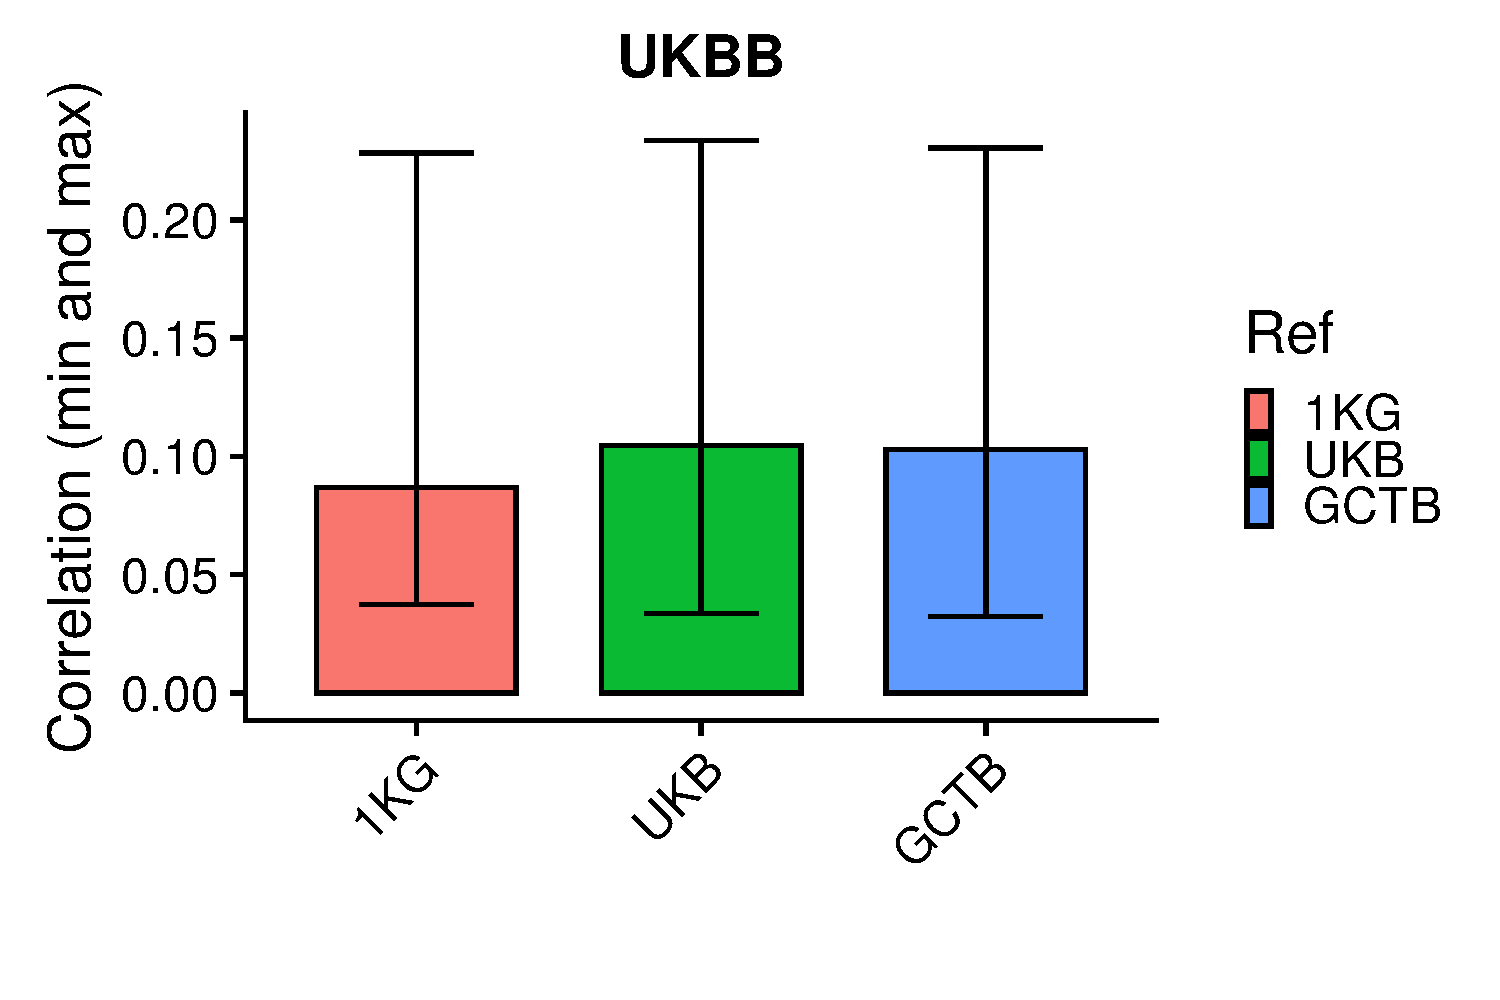
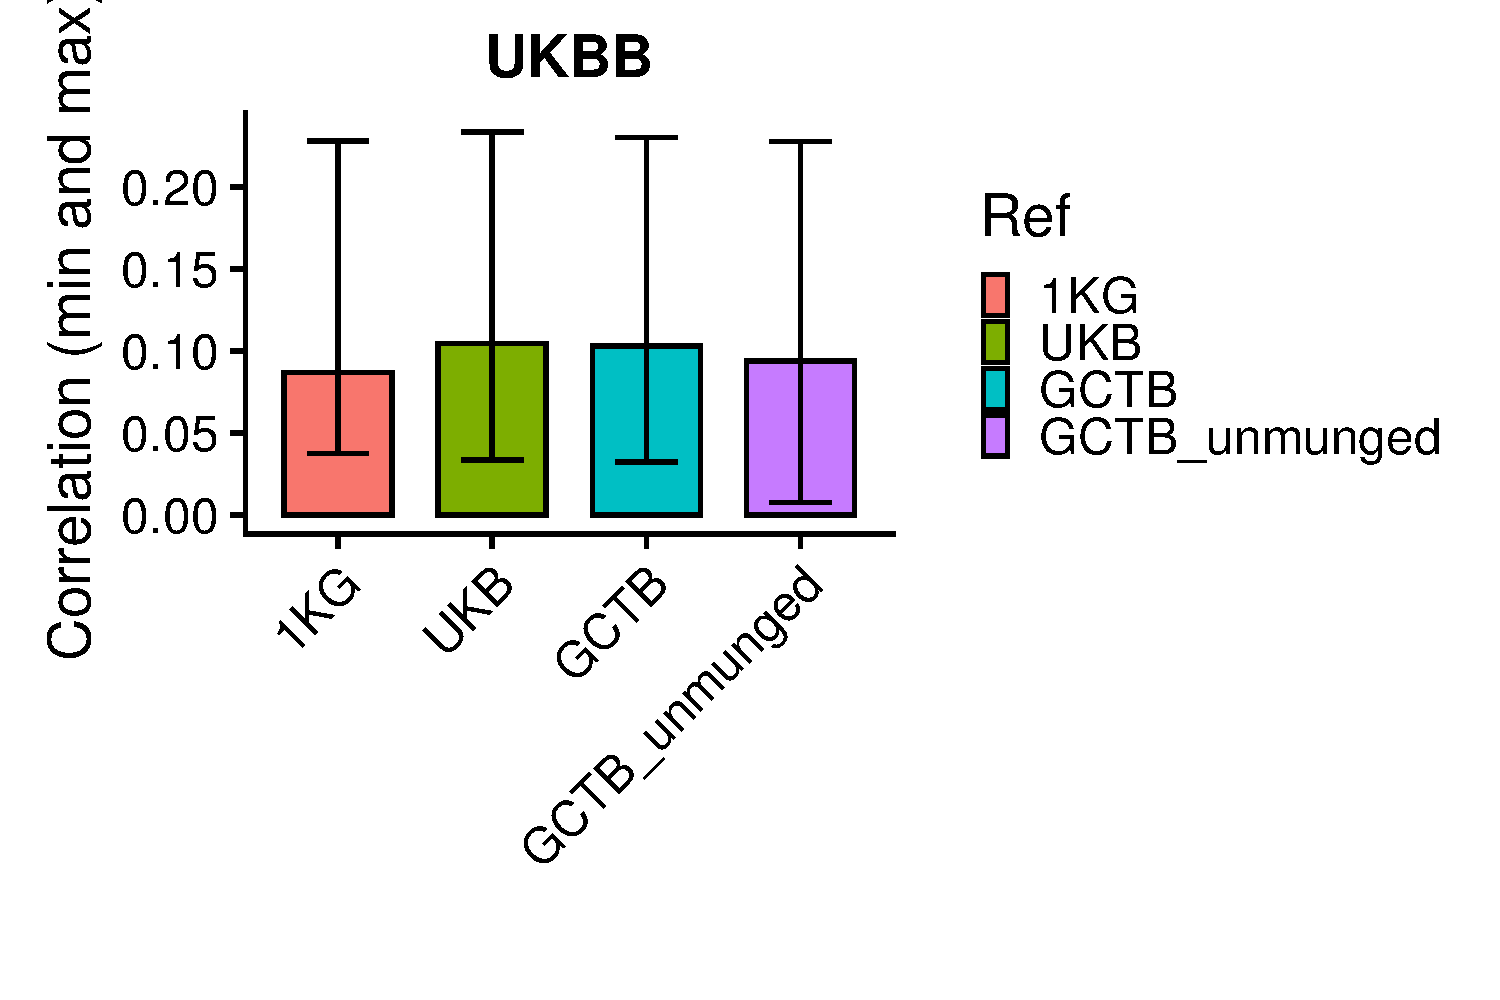
Update
Former-commit-id: 761d9d055f65f9c750fb7faf47b88cfcd8069067

diff --git a/Pipeline_prep.html b/Pipeline_prep.html
@@ -425,7 +425,7 @@ pre code, pre, code {
 <li><p>Available genetic variation</p></li>
 <li><p>Minor allele frequecy (MAF)</p></li>
 </ul>
-<p>Basing these features on the target sample lead to differences in genotype-based scores across samples seperately processed, meaning they cannot be directly compared. This is not a limitation when performing inference within a single dataset, however in framework of prediction it is important that the predictors are derived in a way that can be replicated in any future dataset to optimise external validity of the prediction model.</p>
+<p>Basing these features on the target sample lead to differences in genotype-based scores across samples separately processed, meaning they cannot be directly compared. This is not a limitation when performing inference within a single dataset, however in framework of prediction it is important that the predictors are derived in a way that can be replicated in any future dataset to optimise external validity of the prediction model.</p>
 <p>To ensure consistency in genotye-based scoring we can base each of these features on a reference dataset, such as the 1000 Genomes reference, an approach herein refered to as ‘reference-standardised’. Another advantage of reference-standardised scoring is that a single sample can be realiably processed, enabling reliable prediction for n individual.</p>
 <p>This page provides instructions for preparing the reference data required for reference-standardised genotype-based scoring. Here I provide code used when preparing on the KCL Rosalind cluster, with the intention of deriving scores in the UK Biobank sample and Twins Early Development Study (TEDS) sample.</p>
 <p><br/></p>
@@ -1308,6 +1308,31 @@ qsub -N $(echo job$(($n+15))) -hold_jid $(echo job$(($n+0))) -pe smp 6 -l h_vmem
 --phi_param 1e-6,1e-4,1e-2,1,auto
 n=$(($n+1))
 done
+
+# Run using the PRScs-provided LD reference.
+&gt; ${Geno_1KG_dir}/Score_files_for_poylygenic_PRScs/todo.txt
+for gwas in $(echo DEPR06 COLL01 HEIG03 BODY03 DIAB05 COAD01 CROH01 SCLE02 RHEU01 EDUC03 ADHD04 BODY11);do
+if [ ! -f ${Geno_1KG_dir}/Score_files_for_poylygenic_PRScs/${gwas}/1KGPhase3.w_hm3.${gwas}.EUR.scale ]; then
+echo $gwas &gt;&gt; ${Geno_1KG_dir}/Score_files_for_poylygenic_PRScs/todo.txt
+fi
+done
+
+n=0
+for gwas in $(cat ${Geno_1KG_dir}/Score_files_for_poylygenic_PRScs/todo.txt);do
+qsub -N $(echo job$(($n+15))) -hold_jid $(echo job$(($n+0))) -pe smp 6 -l h_vmem=6G /users/k1806347/brc_scratch/Software/Rscript.sh /users/k1806347/brc_scratch/Software/MyGit/GenoPred/Scripts/polygenic_score_file_creator_PRScs/polygenic_score_file_creator_PRScs.R \
+--ref_plink_chr ${Geno_1KG_dir}/1KGPhase3.w_hm3.chr \
+--ref_keep ${Geno_1KG_dir}/keep_files/EUR_samples.keep \
+--sumstats ${gwas_rep}/${gwas}.sumstats.gz \
+--plink ${plink1_9} \
+--memory 5000 \
+--output ${Geno_1KG_dir}/Score_files_for_poylygenic_PRScs/${gwas}/1KGPhase3.w_hm3.${gwas} \
+--ref_pop_scale ${Geno_1KG_dir}/super_pop_keep.list \
+--PRScs_path ${PRScs_dir}/PRScs.py \
+--PRScs_ref_path ${PRScs_dir}/ldblk_1kg_eur \
+--n_cores 6 \
+--phi_param 1e-6,1e-4,1e-2,1,auto
+n=$(($n+1))
+done
 </code></pre>
 </details>
 <p><br/></p>
@@ -1557,17 +1582,43 @@ sbatch -J SBayesR -n 5 --mem 25G -p brc,shared /users/k1806347/brc_scratch/Softw
 --ref_pop_scale ${Geno_1KG_dir}/super_pop_keep.list
 done
 
-# Too many variants are being removed from the BODY03, BODY11 and SCLE02 GWAS.
+# Re-run SBayesR analysis using the GCTB-provided LD-matrix based on 50,000 UKB individuals, and unmunged sumstats
+&gt; ${Geno_1KG_dir}/Score_files_for_poylygenic_SBayesR/todo_GCTB_unmunged_LD.txt
+for gwas in $(echo DEPR06 COLL01 HEIG03 BODY03 DIAB05 COAD01 CROH01 SCLE02 RHEU01 EDUC03 ADHD04 BODY11);do
+if [ ! -f ${Geno_1KG_dir}/Score_files_for_poylygenic_SBayesR/${gwas}_GCTBref_unmunged/1KGPhase3.w_hm3.${gwas}.EUR.scale ]; then
+echo $gwas &gt;&gt; ${Geno_1KG_dir}/Score_files_for_poylygenic_SBayesR/todo_GCTB_unmunged_LD.txt
+fi
+done
+
+for gwas in $(cat ${Geno_1KG_dir}/Score_files_for_poylygenic_SBayesR/todo_GCTB_unmunged_LD.txt);do
+sbatch -J SBayesR -n 5 --mem 25G -p brc,shared /users/k1806347/brc_scratch/Software/Rscript.sh /users/k1806347/brc_scratch/Software/MyGit/GenoPred/Scripts/polygenic_score_file_creator_SBayesR/polygenic_score_file_creator_SBayesR.R \
+--ref_plink ${Geno_1KG_dir}/1KGPhase3.w_hm3.GW \
+--ref_freq_chr ${Geno_1KG_dir}/freq_files/EUR/1KGPhase3.w_hm3.EUR.chr \
+--ref_keep ${Geno_1KG_dir}/keep_files/EUR_samples.keep \
+--sumstats ${gwas_rep_unmunged}/${gwas}.gz \
+--plink ${plink1_9} \
+--gctb ${gctb} \
+--ld_matrix_chr /users/k1806347/brc_scratch/Data/GCTB/LD_matrix/ukbEURu_hm3_shrunk_sparse/ukbEURu_hm3_v3_50k_chr \
+--memory 20000 \
+--munged F \
+--n_cores 5 \
+--output ${Geno_1KG_dir}/Score_files_for_poylygenic_SBayesR/${gwas}_GCTBref_unmunged/1KGPhase3.w_hm3.${gwas} \
+--ref_pop_scale ${Geno_1KG_dir}/super_pop_keep.list
+done
+
+module load apps/R/3.6.0
+
 opt$ref_plink&lt;-&#39;/users/k1806347/brc_scratch/Data/1KG/Phase3/1KGPhase3.w_hm3.GW&#39;
 opt$ref_freq_chr&lt;-&#39;/users/k1806347/brc_scratch/Data/1KG/Phase3/freq_files/EUR/1KGPhase3.w_hm3.EUR.chr&#39;
 opt$ref_keep&lt;-&#39;/users/k1806347/brc_scratch/Data/1KG/Phase3/keep_files/EUR_samples.keep&#39;
-opt$sumstats&lt;-&#39;/scratch/groups/ukbiobank/sumstats/munged/BODY11.sumstats.gz&#39;
+opt$sumstats&lt;-&#39;/scratch/groups/ukbiobank/sumstats/cleaned/RHEU01.gz&#39;
 opt$plink&lt;-&#39;/users/k1806347/brc_scratch/Software/plink1.9/plink&#39;
 opt$gctb&lt;-&#39;/users/k1806347/brc_scratch/Software/gctb_2.0_Linux/gctb.sh&#39;
 opt$ld_matrix_chr&lt;-&#39;/users/k1806347/brc_scratch/Data/1KG/Phase3/LD_matrix/EUR/1KGPhase3.w_hm3.EUR.chr&#39;
 opt$memory&lt;-30000
 opt$n_cores&lt;-1
-opt$output&lt;-&#39;/users/k1806347/brc_scratch/Data/1KG/Phase3/Score_files_for_poylygenic_SBayesR/BODY11_Test/1KGPhase3.w_hm3.BODY11&#39;
+opt$munged&lt;-F
+opt$output&lt;-&#39;/users/k1806347/brc_scratch/Data/1KG/Phase3/Score_files_for_poylygenic_SBayesR/RHEU01_Test/1KGPhase3.w_hm3.RHEU01&#39;
 opt$ref_pop_scale&lt;-&#39;/users/k1806347/brc_scratch/Data/1KG/Phase3/super_pop_keep.list&#39;
 </code></pre>
 </details>

diff --git a/Pipeline_prep_withUKBB_ref.html b/Pipeline_prep_withUKBB_ref.html
@@ -918,6 +918,7 @@ done
 <details>
 <p><summary>Show code</summary></p>
 <pre class="bash"><code>. /users/k1806347/brc_scratch/Software/MyGit/GenoPred/config_used/Target_scoring.config
+. /users/k1806347/brc_scratch/Software/MyGit/GenoPred/config_used/Pipeline_prep.config
 
 # Create directory for the output
 mkdir ${UKBB_output}/UKBB_ref/Score_files_for_poylygenic_LDPred
@@ -934,7 +935,7 @@ fi
 done
 
 # Run script for selected GWAS
-for gwas in $(cat ${UKBB_output}/UKBB_ref/Score_files_for_poylygenic_LDPred/todo.txt | head -n 1);do
+for gwas in $(cat ${UKBB_output}/UKBB_ref/Score_files_for_poylygenic_LDPred/todo.txt | tail -n +6);do
 sbatch -p brc,shared --mem 50G /users/k1806347/brc_scratch/Software/Rscript.sh /users/k1806347/brc_scratch/Software/MyGit/GenoPred/Scripts/polygenic_score_file_creator_LDPred/polygenic_score_file_creator_LDPred.R \
 --ref_plink ${UKBB_output}/UKBB_ref/genotype/UKBB.noPheno.EUR.10K.GW \
 --ref_keep ${UKBB_output}/UKBB_ref/keep_files/UKBB_noPheno_EUR_10K.keep \
